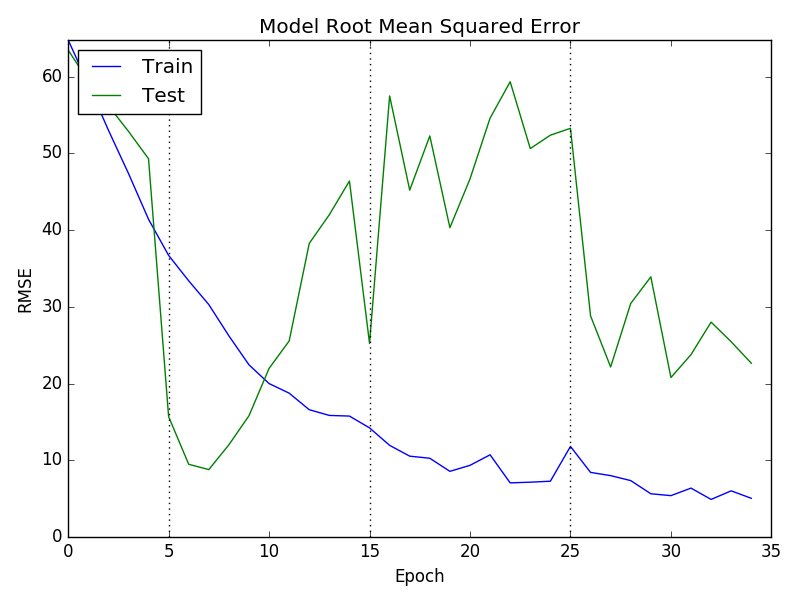
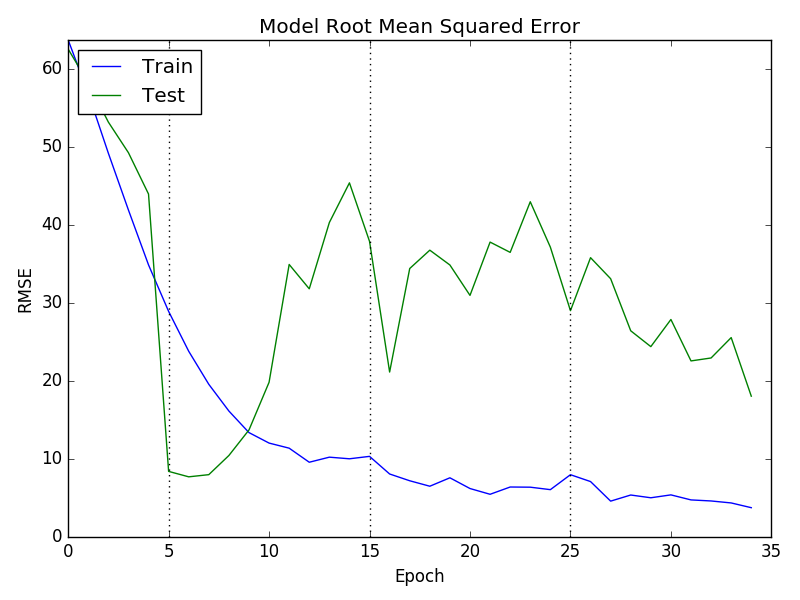
change object_detection outputs

diff --git a/src/object_detection.py b/src/object_detection.py
@@ -6,10 +6,9 @@ import pandas as pd
 import numpy as np
 
 
-
-def object_detector(dir):
-    filenames = os.listdir(dir)
+def object_detector(filenames,filepaths):
     results_df = pd.DataFrame()
+    images = {}
 
     execution_path = os.getcwd()
 
@@ -18,12 +17,12 @@ def object_detector(dir):
     detector.setModelPath( os.path.join(execution_path , "models/resnet50_coco_best_v2.0.1.h5"))
     detector.loadModel()
     custom_objects = detector.CustomObjects(person=True, banana=True)
-    for f in filenames:
-        img_path = os.path.join(dir,f)
+    for f,fp in zip(filenames,filepaths):
+
 
         try:
             detections = detector.detectCustomObjectsFromImage(
-                                    input_image=img_path,
+                                    input_image=fp,
                                     output_type='array',
                                     custom_objects=custom_objects,
                                     minimum_percentage_probability=10,
@@ -40,11 +39,12 @@ def object_detector(dir):
             print(f'Error! No person found in image {f}!')
             continue
         else:
-            img = Image.fromarray(detections[0])
-            img.save(f'../data/predictions/{f}')
+            images[f] = Image.fromarray(detections[0])
             df['image'] = np.asarray(detections[2])
             df = df.sort_values(by=['percentage_probability'],ascending=False).groupby('name').head(1)
             dict = {'filename':f}
+            dict['image_x'] = detections[0].shape[0]
+            dict['image_y'] = detections[0].shape[1]
             for row in df.values:
                 dict[f'{row[1]}_box_point1'] = row[0][0]
                 dict[f'{row[1]}_box_point2'] = row[0][1]
@@ -54,11 +54,21 @@ def object_detector(dir):
                 dict[f'{row[1]}_x'] = row[3].shape[0]
                 dict[f'{row[1]}_y'] = row[3].shape[1]
             results_df = results_df.append(dict,ignore_index=True)
-            print(f'Saved Image {f} Predictions')
+            print(f'{f} Predicted')
 
-    engine = create_engine('postgresql://banana:forscale@bananaforscale.ckaldwfguyw5.us-east-2.rds.amazonaws.com:5432/bananaforscale')
-    results_df.to_sql('regression',con=engine,if_exists='replace')
+    return images, results_df
 
 if __name__ == '__main__':
     dir = '/home/julia/Documents/Galvanize/Capstone-3/data/uploads'
-    object_detector(dir)
+    filenames = os.listdir(dir)
+    filepaths = []
+    for f in filenames:
+        filepaths.append(os.path.join(dir,f))
+
+    images, results_df = object_detector(filenames,filepaths)
+
+    for key,value in images.items():
+        value.save(f'../data/predictions/{key}')
+
+    engine = create_engine('postgresql://banana:forscale@bananaforscale.ckaldwfguyw5.us-east-2.rds.amazonaws.com:5432/bananaforscale')
+    results_df.to_sql('regression',con=engine,if_exists='replace')

diff --git a/src/regression_model.py b/src/regression_model.py
@@ -33,7 +33,7 @@ def data(remove_cols):
 
 def linear():
     print('---------- LINEAR ELASTIC NET MODEL ----------')
-    remove_cols = ['filename','image','index_x','index_y',
+    remove_cols = ['filename','image','index_x','index_y','image_x','image_y',
                     'banana_box_point1','banana_box_point2','banana_box_point3','banana_box_point4',
                     'person_box_point1','person_box_point2','person_box_point3','person_box_point4']
     X_train, X_test, y_train, y_test, X = data(remove_cols)
